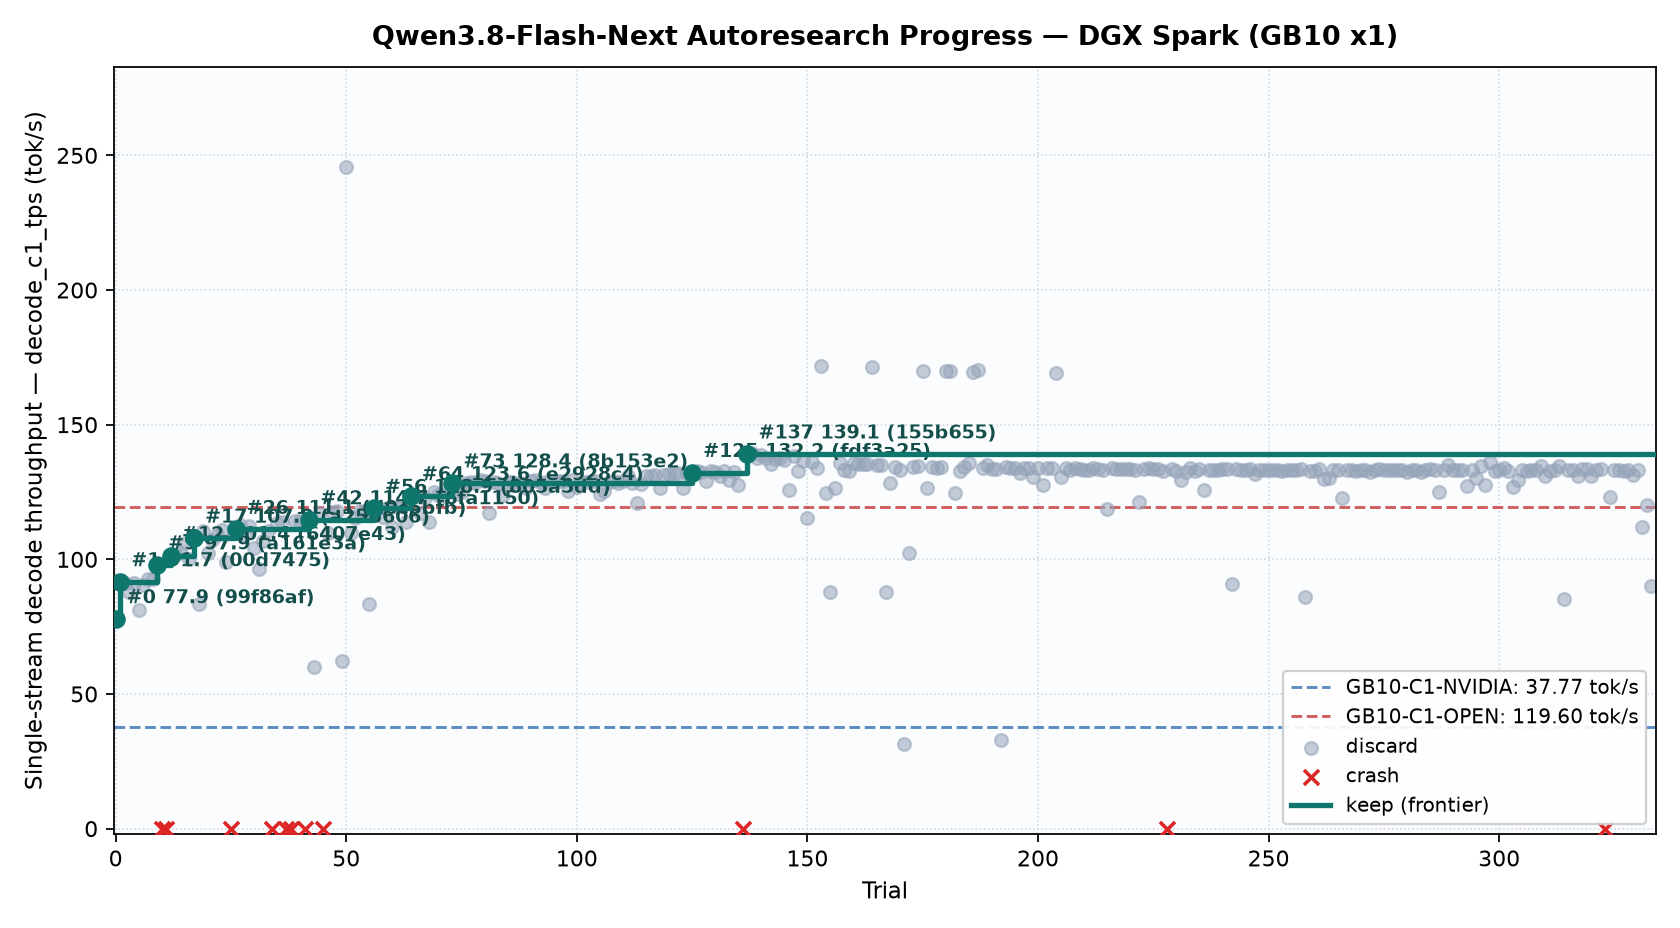
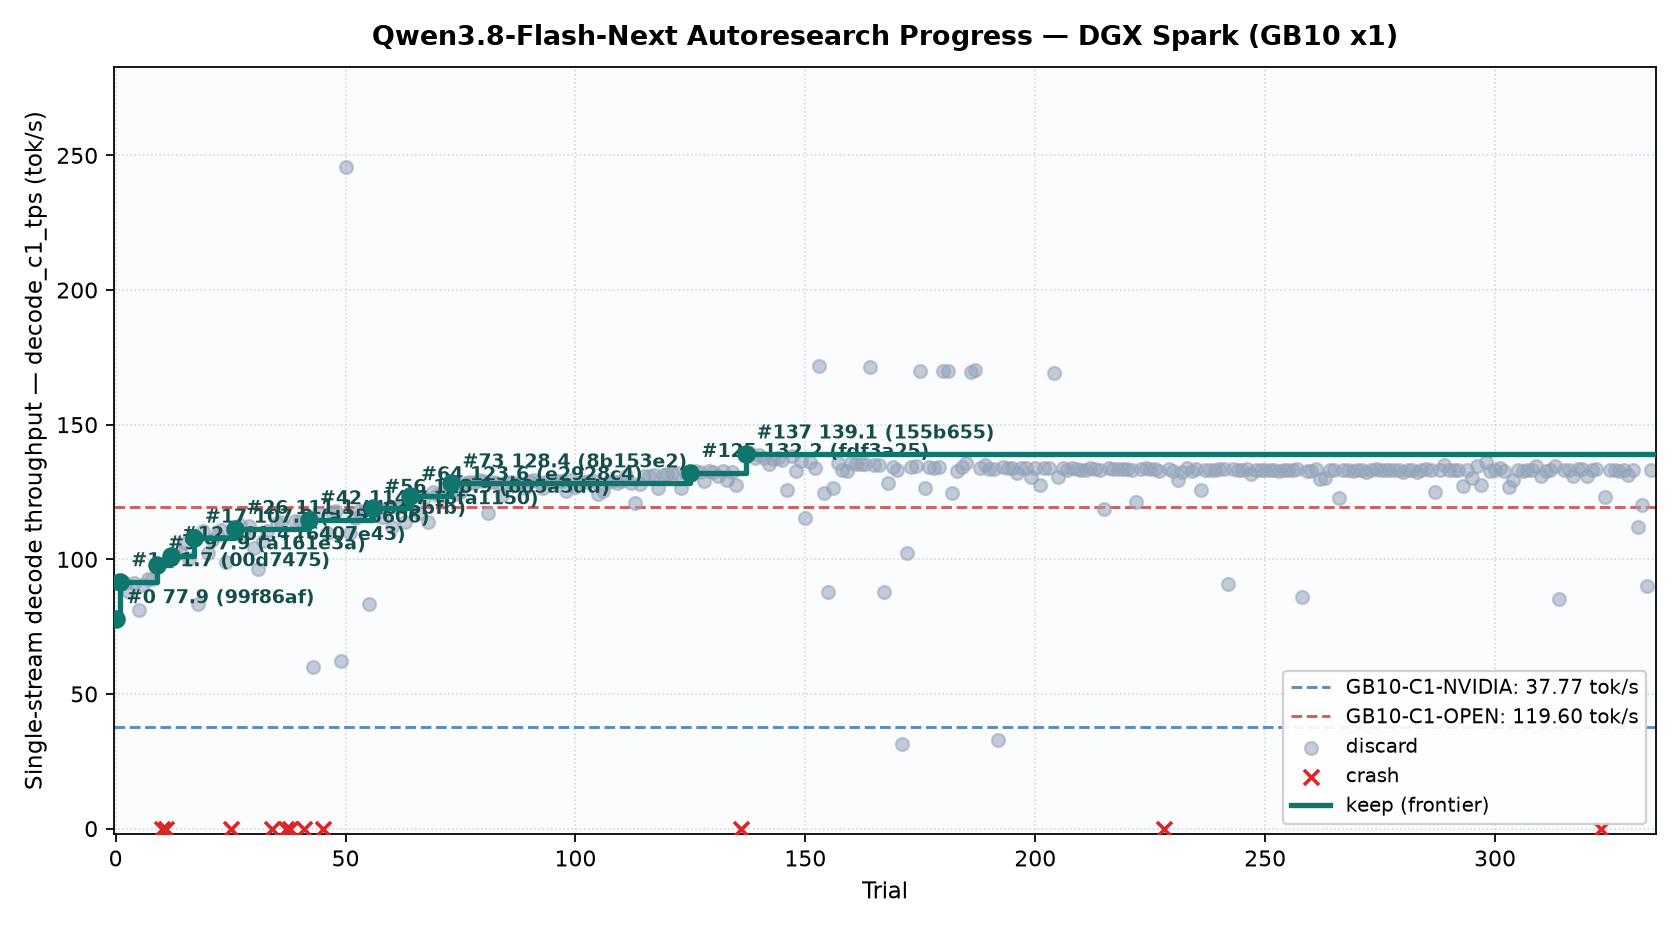
spark trial 334: discard

diff --git a/records/research-log.md b/records/research-log.md
@@ -367,3 +367,4 @@ Deprioritized: **3-bit expert weights** (Hibana +43% but GPQA -0.3, LCB -2.3; on
 | 2026-11-23 05:51 | 331 (new stack) | <https://github.com/sharar-project/hibana/blob/v0.1.0/hibana/kernels/kv_fp4.py> | Checked releases, commits and PRs for all six engines. Trial 330 recorded 133.23 C1 and 240.59 C8 (discard). | Hibana item 2. Test scaled FP8 keys and values for decode and prefill. Keep existing row allocations and the BF16 index cache. Each 32-element group stores 32 payload bytes and a four-byte scale. |
 | 2026-11-23 06:00 | 332 (new stack) | <https://github.com/sharar-project/hibana/blob/v0.1.0/hibana/kernels/kv_fp4.py> and <https://github.com/ashhart/TensorFold/releases/tag/v1.3.4> | TensorFold 1.3.4 was just released. Defer its engine comparison to the next trial. Checked releases, commits and PRs for all six engines. Trial 331 recorded 111.92 C1 and 224.48 C8 (discard). | Hibana item 2. Isolate value traffic and preserve the BF16 keys used to compute attention logits. Only values are stored in scaled FP8 and expanded on read. |
 | 2026-11-23 06:09 | 333 (new stack) | <https://github.com/ashhart/TensorFold/releases/tag/v1.3.4> | Checked releases, commits and PRs for all six engines. Trial 332 recorded 120.19 C1 and 227.71 C8 (discard). | Adopt the newly published TensorFold 1.3.4 aarch64 release. Use the same affine MTP settings as the 1.3.3 control in trial 242 so the upstream revision is the single variable between those controls. |
+| 2026-11-23 06:14 | 334 (new stack) | <https://github.com/sharar-project/hibana/blob/v0.1.0/hibana/engine/depth.py> | Checked releases, commits and PRs for all six engines. Trial 333 recorded 90.06 C1 and 196.07 C8 (discard). | Hibana item 3. Estimate conditional acceptance separately at each verified position. Use an optimistic survival bound to cap uneconomic deep steps and allow a full-depth probe every eighth observed window. |
